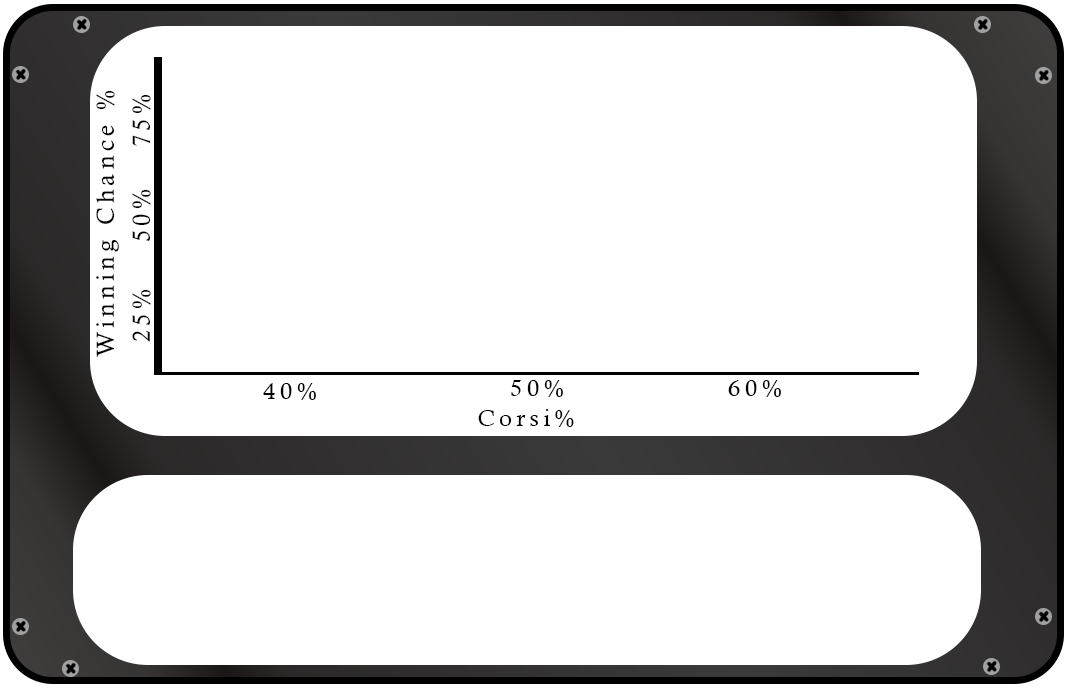
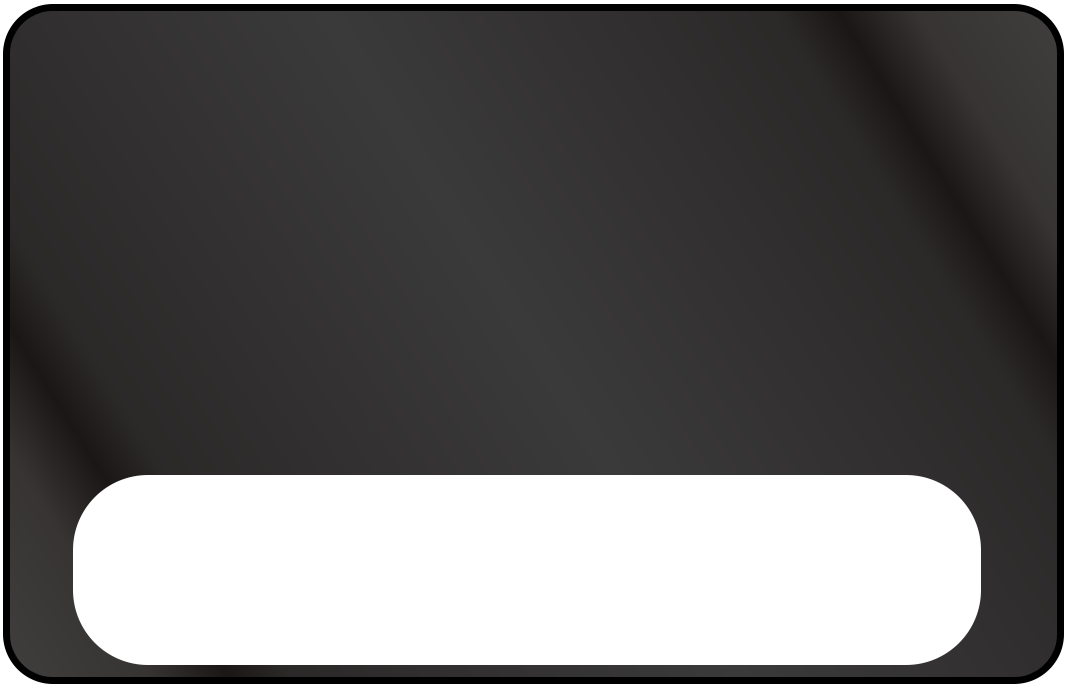
10/23 late

diff --git a/html/homepage.html b/html/homepage.html
@@ -47,10 +47,15 @@
 		<a><img class="introarrow1" src="../images/arrow.png"></img></a>
 		</div> 
 		<img src="../images/defBox.png" id="CorrCanvas"></img>
-					<a class="corrX1"></a><a class="corrY1"></a>
-					<p id="CorrGraph1">Correlation is the relationship between two concepts. In this case, its a team's CORSI% (don't worry about what CORSI is right now) and their chances of winning. As you can see, the <span style="color:red;">Red team</span> has a much higher CORSI for%, thus a higher winning %. Watch what happens if we lower their CORSI for% to just over 50%.</p>
+<!-- 					<a class="corrX1"></a><a class="corrY1"></a>
+ -->					<p id="CorrGraph1">Correlation is the relationship between two concepts. In this case, its a team's CORSI% (don't worry about what CORSI is right now) and their chances of winning. As you can see, the <span style="color:red;">Red team</span> has a much higher CORSI for%, thus a higher winning %. Watch what happens if we lower their CORSI for% to just over 50%.</p>
 					<p id="CorrGraph2">Not only does <span style="color:red;">The Red Team</span> move close to the 50% for winning chances, <span style="color:blue;">the Blue Team</span> does as well. There is a very close relationship between these two stats. Because the stats are from two opposing teams, they will always being moving with each other.  </p>
 					<p id="CorrGraph3">This is as extreme as the two stats can go.</p>
+							 <div class ="row">
+	 <div class ="medium-2 columns">	</div>	 <div class ="medium-8 columns"> 
+
+	<canvas id="canvas" style="display: block; width: 1100px; height: 500px;"></canvas></div>		 <div class ="medium-2 columns">
+</div></row>
 
 		<p id="introtext2">&nbsp;&nbsp;&nbsp;&nbsp;&nbsp;The concept of <a class="define" id="defRepeat"> repeatability </a> is incredibly important for any type of analytics. Goals are not a great example of a repeatable metric, because they rely on many factors like shot location, quality of shot, defender’s position, goalie’s position, goalie’s strengths and weaknesses. However a metric like shot attempts (better known as CORSI, but we will be getting more into that in <a id="toplink">Possession Metrics and Rate Stats</a>) is much more repeatable because it relies on less separate factors, although those factors still do exist).
 		<canvas id="RepCanvas" width="300" height="300"></canvas>
@@ -106,7 +111,7 @@
 
 	<script src="../js/menu.js">		
 		</script>
-		<script src="../js/corrChart.js">
+		<script src="../js/corrBubbleChart.js">
 		</script>
 
   </body>

diff --git a/html/charts example3.html b/html/charts example3.html
@@ -2,7 +2,7 @@
     <head>
 	<script src="https://code.jquery.com/jquery-1.10.2.js"></script>	
 		<script src="../js/Chart.Scatter-master/Chart.Core.js"></script>	
-	<script src="../js/Chart.Scatter-master/Chart.Scatter.js">
+	<script src="../node_modules/chart.js/dist/Chart.js">
 	
 </script>
 
@@ -15,44 +15,47 @@
 <script>
 
 
-		 $("body").click = function() {
+		 
             var ctx = document.getElementById("canvas").getContext("2d");
-            window.myChart = new Chart(ctx, {
-                type: 'bubble',
-                data: datasets: [{
-                label: "My First dataset",
-                backgroundColor: "blue",
-                data: [{
-                    x: 5,
-                    y: 7,
-                    r: Math.abs(100) / 5,
-                }, {
-                    x: 6,
-                    y: 4,
-                    r: Math.abs(25) / 5,
-                }]
-            }, {
-                label: "My Second dataset",
-                backgroundColor: "red",
-                data: [{
-                    x: 1,
-                    y: 8,
-                    r: Math.abs(95) / 5,
-                }, {
-                    x: 4,
-                    y: 6,
-                    r: Math.abs(57) / 5,
-                }]
-            }],
-                options: {
-                    responsive: true,
-                    title:{
-                        display:true,
-                        text:'Chart.js Bubble Chart'
-                    },
+            var myChart = new Chart(ctx, {
+    type: 'bubble',
+    data: {
+        labels: ["Red", "green"],
+        datasets: [{
+            label: 'Corsi for% X Winning Chance%',
+            data: [{x:12,y:15,r:24},{x:19,y:14,r:54}],
+            backgroundColor: [
+                'rgba(255, 99, 132, 0.2)',
+                'rgba(54, 162, 235, 0.2)'
+            ],
+            borderColor: [
+                'rgba(255,99,132,1)',
+                'rgba(54, 162, 235, 1)',
+            ],
+            borderWidth: 1
+        }]
+    },
+    options: {
+        scales: {
+            yAxes: [{
+                ticks: {
+                    beginAtZero:true,
+					max: 100,
+                    min: 0,
+                    stepSize: 25
                 }
-            });
-        };
+            }],
+			 xAxes: [{
+                ticks: {
+                    max: 100,
+                    min: 0,
+                    stepSize: 25
+                }
+            }]
+        }
+    }
+});
+       
 
 	</script>
 

diff --git a/js/menu.js b/js/menu.js
@@ -21,6 +21,8 @@ function returnToHome(){
 			$(".crosbyspeech").hide();
 			$(".introbg").hide();
 			hideCorr();
+					$("#canvas").hide();
+
 
 			canvasReset();
 					introON=false;
@@ -182,9 +184,13 @@ $(".corrY1").hide();
 	
 }
 var CorrGraph =1;
+		$("#canvas").hide();
+
 $("#defCorrelation").click(function(){
 	if(defCorrel){
 		hideCorr();
+				$("#canvas").hide();
+
 		defCorrel= false;
 	}
 	else{
@@ -193,6 +199,7 @@ $("#defCorrelation").click(function(){
 		});
 		$("#CorrCanvas").show();
 		$("#CorrGraph1").show();
+		$("#canvas").show();
 		CorrGraph =1;
 		$(".corrX1").show();
 			$(".corrY1").show();
@@ -209,9 +216,10 @@ $("#CorrCanvas").click(function(){
 	 		$(".corrX1").show();
 			$(".corrY1").show();
 	$("#CorrGraph1").hide();
-
 	CorrGraph=2;
-	$("#CorrGraph2").show();
+
+			$("#CorrGraph2").show();
+
 	 corr1();
  }
 	else if (CorrGraph==2){
@@ -225,6 +233,7 @@ $("#CorrCanvas").click(function(){
 		CorrGraph=4;
 		$("#CorrCanvas").hide();
 		$("#CorrGraph3").hide();
+		$("#canvas").hide();
 
 		$(".corrX1").hide();
 		$(".corrY1").hide();
@@ -656,8 +665,7 @@ var myPieChart = new Chart(cty,{
             ]
 	}]}
 }); */
-
-var animate1 = $("#introtext1").blast({ delimiter: "character" });
+var animate1 = $("#introtext1").blast({ delimiter: "word" });
 function introtext1Start(){animate1.each(function(i) {
   // initialize position
   $(this).css({
@@ -674,7 +682,7 @@ function introtext1Start(){animate1.each(function(i) {
   .animate({ opacity: 1}, 500);
 });
 }
-var animate2 = $("#introtext2").blast({ delimiter: "character" });
+var animate2 = $("#introtext2").blast({ delimiter: "word" });
 function introtext2Start(){ animate2.each(function(i) {
 	  // initialize position
 	  $(this).css({
@@ -691,7 +699,7 @@ function introtext2Start(){ animate2.each(function(i) {
 	  .animate({ opacity: 1}, 500);
 	});
 }
-var animate3 = $("#introtext3").blast({ delimiter: "character" });
+var animate3 = $("#introtext3").blast({ delimiter: "word" });
 function introtext3Start(){ animate3.each(function(i) {
 	  // initialize position
 	  $(this).css({
@@ -708,7 +716,7 @@ function introtext3Start(){ animate3.each(function(i) {
 	  .animate({ opacity: 1}, 500);
 	});
 }
-var animate4 = $("#introtext4").blast({ delimiter: "character" });
+var animate4 = $("#introtext4").blast({ delimiter: "word" });
 function introtext4Start(){ animate4.each(function(i) {
 	  // initialize position
 	  $(this).css({

diff --git a/js/corrBubbleChart.js b/js/corrBubbleChart.js
@@ -1,0 +1,82 @@
+var a,b,c;
+var i=2;
+var data1={x: 75, y:75,r: 32}, data2={x: 25, y: 23,r: 32};
+
+ function corrUpdate1() {
+            dataPlace={
+					animation: {
+								duration: 10000
+							},
+							datasets: [{
+								label: "My First dataset",
+								backgroundColor: 'red',
+								data: [{
+									x: 51,
+									y: 52,
+									r: 25
+								}]
+							}, {
+								label: "My Second dataset",
+								backgroundColor: 'blue',
+								data: [{
+									x: 49,
+									y: 48,
+									r: 25
+								}]
+							}]
+				  };
+				  
+            window.CorrChart.update();
+        }
+
+var dataPlace = {
+	animation: {
+                duration: 10000
+            },
+            datasets: [{
+                label: "My First dataset",
+                backgroundColor: 'red',
+                data: [{
+                    x: 75,
+                    y: 75,
+                    r: 25
+                }]
+            }, {
+                label: "My Second dataset",
+                backgroundColor: 'blue',
+                data: [{
+                    x: 25,
+                    y: 25,
+                    r: 25
+                }]
+            }]
+  };
+
+         window.onload = function() {
+ var ctx = document.getElementById("canvas").getContext("2d");
+             window.CorrChart = new Chart(ctx, {
+    type: 'bubble',
+    data: dataPlace,
+    options: {
+        scales: {
+			responsive: true,
+            yAxes: [{
+                ticks: {
+                    beginAtZero:true,
+					max: 100,
+                    min: 0,
+                    stepSize: 25
+                }
+            }],
+			 xAxes: [{
+                ticks: {
+                    max: 100,
+                    min: 0,
+                    stepSize: 25
+                }
+            }]
+        }
+    }
+			
+		 });};
+       

diff --git a/css/index.css b/css/index.css
@@ -139,7 +139,7 @@ position:absolute;
 #CorrGraph1,#CorrGraph2, #CorrGraph3{
 	font-family:"Calibri";
 	position:absolute;
-	top:72%;
+	top:68%;
 	left:27%;
 	z-index:30;
 	font-size:1.5em;
@@ -187,4 +187,13 @@ p.crosbyspeech  	{
 	border-Radius:25px;
 	z-index:25;
 
+}
+#canvas{
+	background-color:white;
+	/* width:900px !important;
+	height:400px !important; */
+ 	position:absolute;
+	top:26%;
+	left:27%;
+	z-index:25;
 }

diff --git a/html/charts example.html b/html/charts example.html
@@ -7,7 +7,7 @@
     <script type="text/javascript" charset="utf-8">
       $(document).ready(function() {
 
-              var ctx = document.getElementById("chart2").getContext("2d");
+ var ctx = document.getElementById("chart2").getContext("2d");
 	var scatterChart = new Chart(ctx, {
 		type: 'line',    data: {
 			datasets: [{
